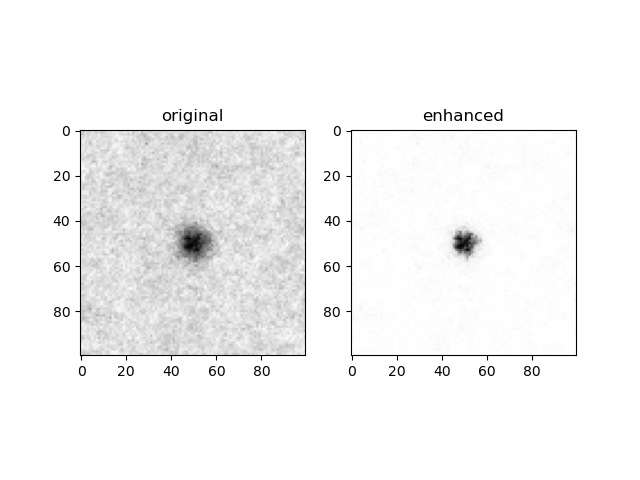
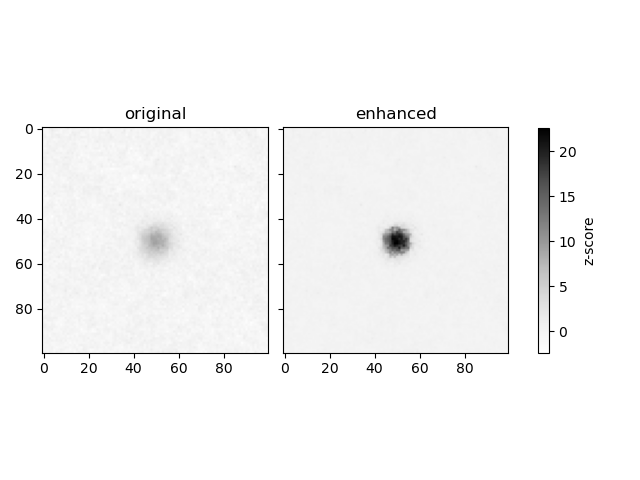
update demo script and generated figs

diff --git a/demo_stc.py b/demo_stc.py
@@ -178,9 +178,10 @@ stc_ptfce.data = _ptfce.reshape(stc.data.shape)
 # VISUALIZE THE RESULTS #
 # # # # # # # # # # # # #
 
-# convert p-values to -log10 pvalues
+# convert p-values to -log10 p-values
 stc_enh = stc_ptfce.copy()
 stc_enh.data = -1 * np.log10(np.maximum(stc_enh.data, 1e-10))
+# stc_enh.data = norm.isf(stc_ehn.data)  # better comparison?
 # prep colormaps
 pval_threshs = np.array([0.05, 0.001, 1e-10])
 clim_enh = dict(kind='value', lims=tuple(-np.log10(pval_threshs)))
@@ -190,7 +191,8 @@ clim_orig = dict(kind='percent', lims=tuple(100 * (1 - pval_threshs)))
 # plot before/after on brains
 for title, (_stc, clim) in dict(original=(stc, clim_orig),
                                 # enhanced=(stc_ptfce, clim_orig),
-                                neglogp=(stc_enh, clim_enh)).items():
+                                neglogp=(stc_enh, clim_enh)
+                                ).items():
     figname = f'figs/{title}-stc-data-{analysis}.png'
     if analysis == 'surf':
         fig = _stc.plot(title=title, clim=clim,
@@ -200,7 +202,7 @@ for title, (_stc, clim) in dict(original=(stc, clim_orig),
         assert isinstance(stc, mne.VolSourceEstimate)
         # these nilearn-based plots block execution by default, so use ion
         with ion():
-            fig = _stc.plot(src=inverse['src'], clim=clim)
+            fig = _stc.plot(src=inverse['src'], clim=clim, mode='glass_brain')
             fig.savefig(figname)
             close(fig)
     else:  # 'peak'
@@ -210,21 +212,27 @@ for title, (_stc, clim) in dict(original=(stc, clim_orig),
         # remove singleton timepoint dimension
         if vol.shape[-1] == 1:
             vol.dataobj.shape = vol.shape[:-1]
-        # we need to transform the data to MNI Talairach space
-        # for glass-brain plotting to work right
-        trans = mne.transforms.read_ras_mni_t(subject=_stc.subject,
-                                              subjects_dir=None)
-        vol = nib.Nifti1Image(vol.dataobj, trans['trans'] @ vol.affine)
+        # let's keep everything in subject-coordinates when running in R, then
+        # do necessary transforms in Python afterwards
+        # (making sure to save the affine first so we can re-load it later)
+        affine = vol.affine[:]
+        np.save('affine.npy', affine)
+        vol = nib.Nifti1Image(vol.dataobj, affine=np.eye(4))
         nib.save(vol, f'{fname}.nii.gz')
         # we also need to convert dSPM's F-values into the z-values that the
-        # R implementation expects
-        z_vals = norm.ppf(fdist.cdf(vol.dataobj, dfn=3, dfd=raw.n_times))
+        # R implementation expects (and avoid introducing non-finite values
+        # along the way)
+        probs = fdist.cdf(vol.dataobj, dfn=3, dfd=raw.n_times)
+        inf_mask = probs == 0.
+        probs = np.nextafter(probs, np.inf, where=inf_mask, out=probs)
+        z_vals = norm.ppf(probs)
         vol_z = nib.Nifti1Image(z_vals, vol.affine)
         nib.save(vol_z, f'{fname}_z.nii.gz')
         # make a brain mask (only need one)
         if title == 'original':
-            mask = (vol.get_fdata() > 0).astype(np.uint8)
-            nib.save(nib.Nifti1Image(mask, vol.affine), 'brain_mask.nii.gz')
+            brain_mask = (vol.dataobj > 0).astype(np.uint8)
+            nib.save(nib.Nifti1Image(brain_mask, vol.affine),
+                     'brain_mask.nii.gz')
 
 # plot distributions and save
 fig = plot_null_distr(
